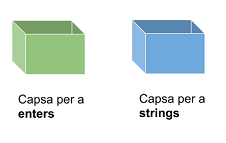
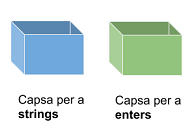
.

diff --git a/javatutorial/2/index.html b/javatutorial/2/index.html
@@ -79,14 +79,14 @@
     </p>
 
     <info>
-        <p>Una forma habitual d’entendre les variables és veure-la com una <strong>capsa</strong> 
+        <p>Una forma habitual d’entendre les variables és imaginar una variable com una <strong>capsa</strong> 
             on s’hi emmagatzema una dada o valor.</p>
         <img src="img/variable1.png">
         <hr>
         
-        <p>Així, hi haurà capses de diferents colors, per a emmagatzemar diferents
+        <p>Així, hi ha capses de diferents colors, per a emmagatzemar diferents
             <strong>tipus de dades</strong>.
-        <br>Per exemple, capses verdes per a <w>String</w> i capses blaves per a <w>int</w>:</p>
+        <br>Per exemple, capses blaves per a <w>String</w> i capses verdes per a <w>int</w>:</p>
         <img src="img/variable2.png">
         <hr>
         
@@ -144,11 +144,11 @@
 
     <code java>
         String diaDeLaSetmana = "Dilluns";
-        System.out.println(dayOfWeek); // Dilluns
+        System.out.println(diaDeLaSetmana); // Dilluns
     </code>
 
     <p>També es possible assignar el valor d'una variable a una altra variable. A la
-        línia <ln>2</ln> d'aquest codi estem assignant el valor de <w>diaDelMes</w> a <w>avui</w>:
+        línia <ln>2</ln> d'aquest codi estem assignant a <w>avui</w> el valor de <w>diaDelMes</w>:
     </p>
     <code java data-line="2">
         int diaDelMes = 25;
@@ -159,8 +159,7 @@
     <img src="img/variable8.png">
 
     <observe>
-        <p>És important notar que quan assignem el valor d'una variable a una altra, no es perd 
-        el seu valor.</p>
+        <p>És important notar que no es perd el valor d'una variable quan l'assignem a una altra variable.</p>
     </observe>
 
     <p>Una característica important de les variables és que el seu valor pot canviar.
@@ -183,7 +182,7 @@
     <code java>
         int dia = 10;    // ok
         dia = 11;        // ok
-        dia = "Dilluns"; // error!
+        dia = "Dilluns"; // error! El tipus inicial era int
     </code>
     </p>
 
@@ -234,8 +233,8 @@
     <h3>Tipus de variables</h3>
     <p>A la documentació oficial d'Oracle pots trobar els
         <a href="https://docs.oracle.com/javase/tutorial/java/nutsandbolts/datatypes.html">
-        tipus de dades del llenguatge Java
-        </a>. En aquest curs utilitzarem més sovint els següents:</p>
+        tipus de dades del llenguatge Java</a>. 
+        En aquest curs utilitzarem més sovint els següents:</p>
     <ul>
         <li><w>int</w></li>
         <li><w>float</w></li>
@@ -259,7 +258,7 @@
 
     <code java>
         int edat = 18;
-        float pes = 68.7f;
+        float notaMitjana = 8.75f;
         boolean estaMatriculat = true;
         char grup = 'A';
         String email = "alumne@ins.com";
@@ -420,7 +419,7 @@
         ho agrairàs.
     </p>
 
-    <p>A més a més, has de seguir les regles i les convencions que has de seguir per a posar noms</p>
+    <p>A més a més, has de seguir les regles i les convencions que has de seguir per a posar noms.</p>
 
 
 
@@ -522,13 +521,15 @@
     Està suportada pel sistema operatiu. Per defecte, l'entrada estàndard obté les dades del 
     teclat, tot i que es possible redirigir-la per a obtenir les dades d'un fitxer.</p>
     <p>De fet, no tots els programes utilitzen l'entrada estàndard. Però nosaltres l'utilitzarem 
-        molt sovint per a que puguis arribar a dominar les teves habilitats de programació!
-        El forma típica en que resoldrem problemes és aquesta:
+        molt sovint per a demanar dades al usuaris per teclat, o per a obtenir les dades dels casos
+        de prova en els exercicis.
     </p>
+        
+    <p>La forma típica en que resoldrem problemes és aquesta:</p>
     <ol>
         <li><p>Llegir dades de l'entrada estàndard (<w>System.in</w>)</p></li>
         <li><p>Processar les dades per a obtenir un resultat</p></li>
-        <li><p>Imprimir el resultat a la sortida estàndars (<w>System.out</w>)</p></li>
+        <li><p>Imprimir el resultat a la sortida estàndard (<w>System.out</w>)</p></li>
     </ol>
 
     <p>Aquest tipus de problemes de programació es poden provar fàcilment amb diferents 
@@ -558,7 +559,7 @@
     <p>En aquesta línia hem creat un objecte de la classe <w>Scanner</w>, que ens 
     permet utilitzar els seus mètodes. Aprendrem més sobre classes i objectes més 
     endavant. <w>System.in</w> indica que es llegirà el flux de dades de l'entrada 
-    estàndard. De moment, no és necessari que comprenguis aquesta línia, solament 
+    estàndard (habitualment, el teclat). De moment, no és necessari que comprenguis aquesta línia, solament 
     escriu-la exactament així.</p>
 
     <p>Anem a escriure el primer programa que llegeix dades del teclat:</p>
@@ -582,6 +583,10 @@
         }
     </code>
 
+    <challenge>
+        <p>Prova a escriure i executar aquest programa a l'IntelliJ.</p>
+    </challenge>
+    
     <p>Quan executem el programa, veurem el següent. En verd es mostra l'entrada 
         introduïda per teclat:
     </p>
@@ -598,7 +603,7 @@
         dades introduïdes per teclat.</li>
         <li>A <ln>10</ln> utilitzem el mètode <w>nextLine()</w> per a llegir una 
         línia de dades del teclat. Guardem les dades llegides a la variable <w>nom</w></li>
-        <li>A <ln>13</ln> imprimir la variable <w>nom</w>, que conté les dades que s'han 
+        <li>A <ln>13</ln> imprimim la variable <w>nom</w>, que conté les dades que s'han 
         llegit per teclat a <ln>10</ln></li>
     </ul>
 
@@ -696,7 +701,7 @@
     </p>
 
     <p>Per exemple, el següent programa tracta de llegir un enter del teclat, però 
-        l'usuari introdueix un text. L'execució del programa s'abortarà amb una excepció 
+        l'usuari introdueix un text (<string>holaaa</string>). L'execució del programa s'abortarà amb una excepció 
         de tipus <w>InputMismatchException</w>:
     </p>
 
@@ -743,8 +748,8 @@
     </code>
 
     <p>Quan executem el programa, la primera crida a <w>nextInt()</w> <ln>2</ln>, quedarà 
-    esperant a que l'usuari introdueixi un número. Si l'usuari introdueix un únic 
-    número, aquest serà consumit de l'entrada i assignat a la variable <w>a</w>. 
+    esperant a que l'usuari introdueixi un número. Si l'usuari <strong>introdueix un únic 
+    número</strong>, aquest serà consumit de l'entrada i assignat a la variable <w>a</w>. 
     Quan es fa la segona crida a <w>nextInt()</w> <ln>4</ln>, el programa tornarà a esperar 
     a que s'introdueixi un altre número.</p>
 
@@ -758,9 +763,9 @@
         6789
     </shell>
 
-    <p>Però, si a la primera crida a <w>nextInt()</w> <ln>2</ln>, l'usuari introdueix 
-    dos números, el primer d'ells serà consumit per l'<w>scanner</w> i assignat a la 
-    variable <w>a</w>, i el segon número quedarà per consumir. Així, a la segona crida 
+    <p>Però, si a la primera crida a <w>nextInt()</w> <ln>2</ln>, l'usuari <strong>introdueix 
+    dos números</strong>, el primer d'ells serà consumit per l'<w>scanner</w> i assignat a la 
+    variable <w>a</w>, i el segon número quedarà pendent per consumir. Així, a la segona crida 
     a <w>nextInt()</w> <ln>4</ln>, l'<w>scanner</w> no esperarà a que s'introdueixi un 
     altre número, sinò que consumirà el número que havia quedat per consumir i quedarà 
     assignat a la variable <w>b</w> sense esperar a que s'introdueixi un altre número.</p>
@@ -1046,4 +1051,9 @@
         <p><a href="https://www.hackerrank.com/contests/dam-m3/challenges/carta-formal">Carta formal</a></p>
         <p><a href="https://www.hackerrank.com/contests/dam-m3/challenges/arxius-de-codi-font">Arxius de codi font</a></p>         
     </challenge>
+
+    <project>
+        <p>Completa l'Etapa 2 del <a href="/chatbot#section2">projecte ChatBOT</a></p>
+    </project>
+
 </section>

diff --git a/chatbot/index.html b/chatbot/index.html
@@ -33,12 +33,13 @@
 
     Ara ja pots començar a programar el BOT a l'arxiu <file>Main.java</file>
 </section>
+
 <section>
-    <h2>Etapa 1/4: Hola! Com et dius?</h2>
+    <h2>Etapa 1/4: Hola! Em dic Herbie</h2>
     <p>A la primera etapa, has d'escriure un bot que mostri una salutació, el seu nom i la seva 
         data de creació
     </p>
-    <p>El teu programa haurà d'imprimir les següents línies</p>
+    <p>El teu programa haurà d'imprimir les següents línies:</p>
     <shell>
         Hola! El meu nom és {botName}.
         Vaig ser creat en {birthYear}.
@@ -46,4 +47,35 @@
 
     <p>En lloc de <w>{botName}</w> imprimeix el nom que més t'agradi i substitueix <w>{birthYear}</w>
     per l'any actual.</p>
+</section>
+
+<section>
+    <h2>Etapa 2/4: I tu, com et dius?</h2>
+    <p>En aquesta segona etapa faràs que el bot interactuï amb l'usuari, mantenint una conversa
+        amb ell.
+    </p>
+    <p>Pots fer que el bot faci preguntes a l'usuari, i que guardi les respostes en variables.
+        El bot utilitzarà aquestes respostes memoritzades a mesura que vagi avançant la conversa. 
+        Així donarà la sensació de que el bot va aprenent i és "intel·ligent".
+    </p>
+
+    <p>Aquí tens un exemple de conversa que podria mantenir el bot amb un usuari:</p>
+
+    <shell>
+        Hola! El meu nom és Herbie.
+        Vaig ser creat l'any 2020.
+        I tu, com et dius?
+        <in>Alan</in>
+        Encantat
+        En quin any vas nèixer?
+        <in>1912</in>
+        Sé que estàs aprenent a programar. Quin llenguatge utilitzes?
+        <in>Java</in>
+        A la gent que heu nascut en 1912 què us agrada fer?
+        <in>desxifrar codis</in>
+        Ah què bé Alan! A mi també m'agrada desxifrar codis.
+        Utilitzes Java per fer programes relacionats amb Desxifrar codis?
+    </shell>
+
+    <p>Fixa't en que el bot ha utilitzat les respostes de l'usuari en les seves pròpies frases!</p>
 </section>

diff --git a/javatutorial/1/index.html b/javatutorial/1/index.html
@@ -36,6 +36,7 @@
     <challenge>
         <p>De moment no és necessari que comprenguis com funciona 
             aquest codi. Així i tot, prova a resoldre aquest exercici:
+            <br>
             <a href="https://www.hackerrank.com/contests/dam-m3/challenges/hello-name-3">Hola, &lt;NOM&gt;!</a>
         </p>
     </challenge>
@@ -323,8 +324,10 @@
     </p>
 
     <warn>
-        Important, que <strong>Hello, World!</strong> no és una paraula-clau o un identificador; és 
+        <p>
+        Important!, <string>"Hello, World!"</string> no és una paraula-clau o un identificador; és 
         solament un text per a ser imprimit.
+        </p>
     </warn>
 
     <!--
@@ -387,6 +390,7 @@
     
     <work>
         <p> Ara que has aprés l'anatomia bàsica d'un programa Java, prova a fer aquest exercici:
+            <br>
             <a href="https://www.hackerrank.com/contests/dam-m3/challenges/einstein">Cita Einstein</a>
         </p>
     </work>
@@ -593,8 +597,8 @@
     </quizz>
 
     <challenge>
-        <p>Resol aquests problemes:</p>
-        <p>
+        <p>Resol aquests problemes:
+            <br>
             <a href="https://www.hackerrank.com/contests/dam-m3/challenges/de-0-a-4">De 0 a 4</a>
             <br>
             <a href="https://www.hackerrank.com/contests/dam-m3/challenges/jota-amb-asteriscs">Jota amb asteriscs</a>

diff --git a/fragments/index.html b/fragments/index.html
@@ -797,9 +797,14 @@
 </section>
     
 <section>
-    <h2>Práctica</h2>
-    <img src="img/f22abb3936d9dac0.png"> P2-Onboarding
-    <p>Onboarding con 3 destinos, y la opcion de saltar. Animaciones</p>
-    <img src="img/1383f2eda52a44c8.gif"></p>
-    <img src="img/e739b44958764ed.png"></p>
+    <h2>Práctica: Onboarding</h2>
+    <p>Implementa un Onboarding de 3 pantallas. En las dos primeras 
+        debe haber una opción para omitir (<em>skip</em>). 
+        Utilitza diferentes animaciones en cada acción de navegación.</p>
+
+    <p>Ejemplo:</p>
+    <img src="img/onboarding.gif">
+    
+    <p>Grafo de navegación:</p>
+    <img src="img/e739b44958764ed.png">
 </section>
